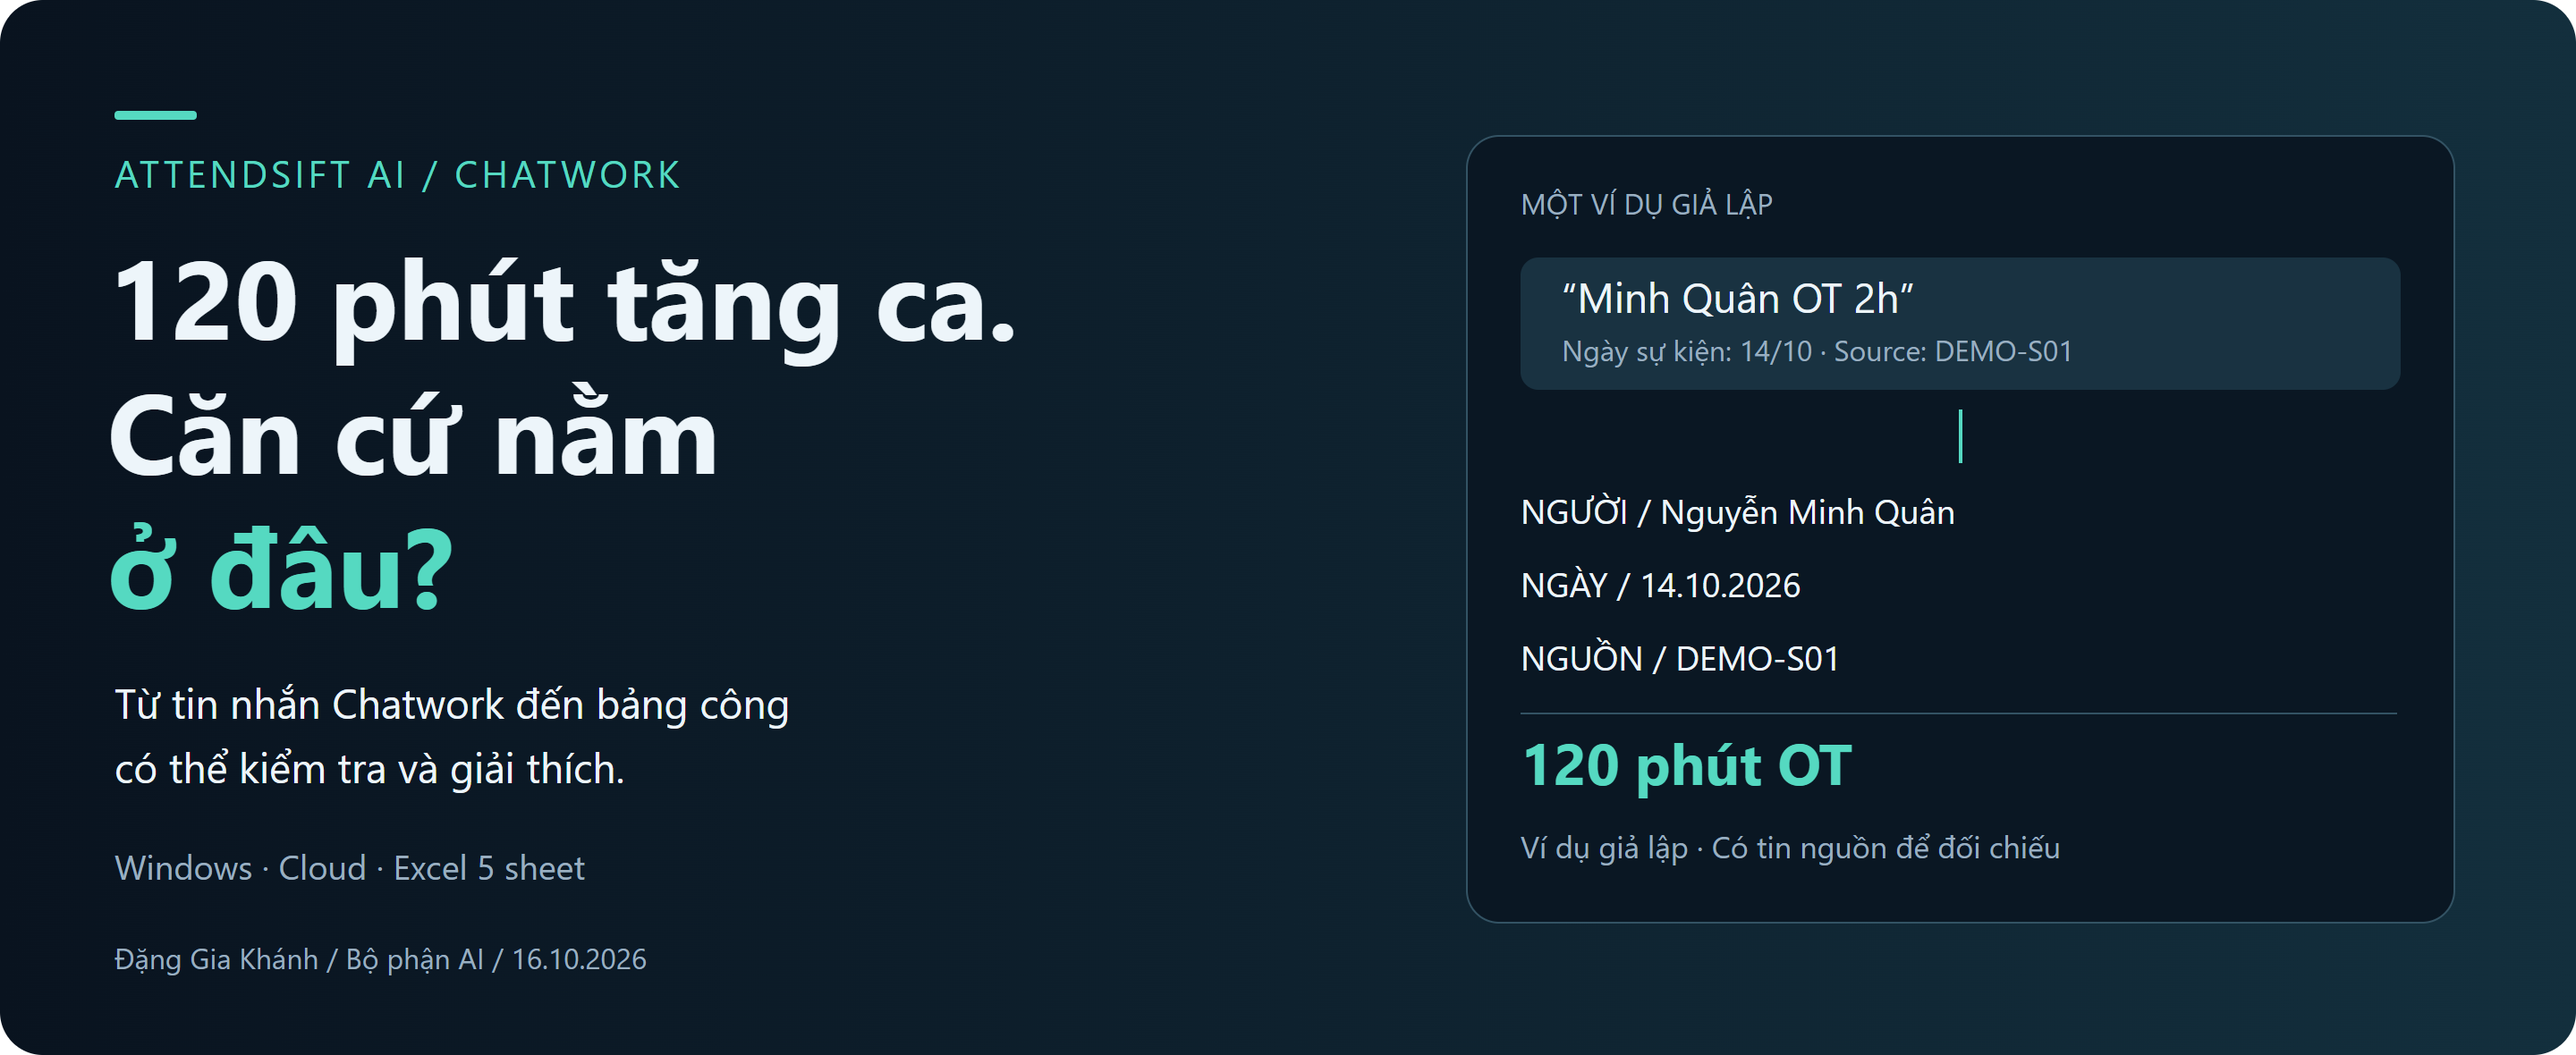
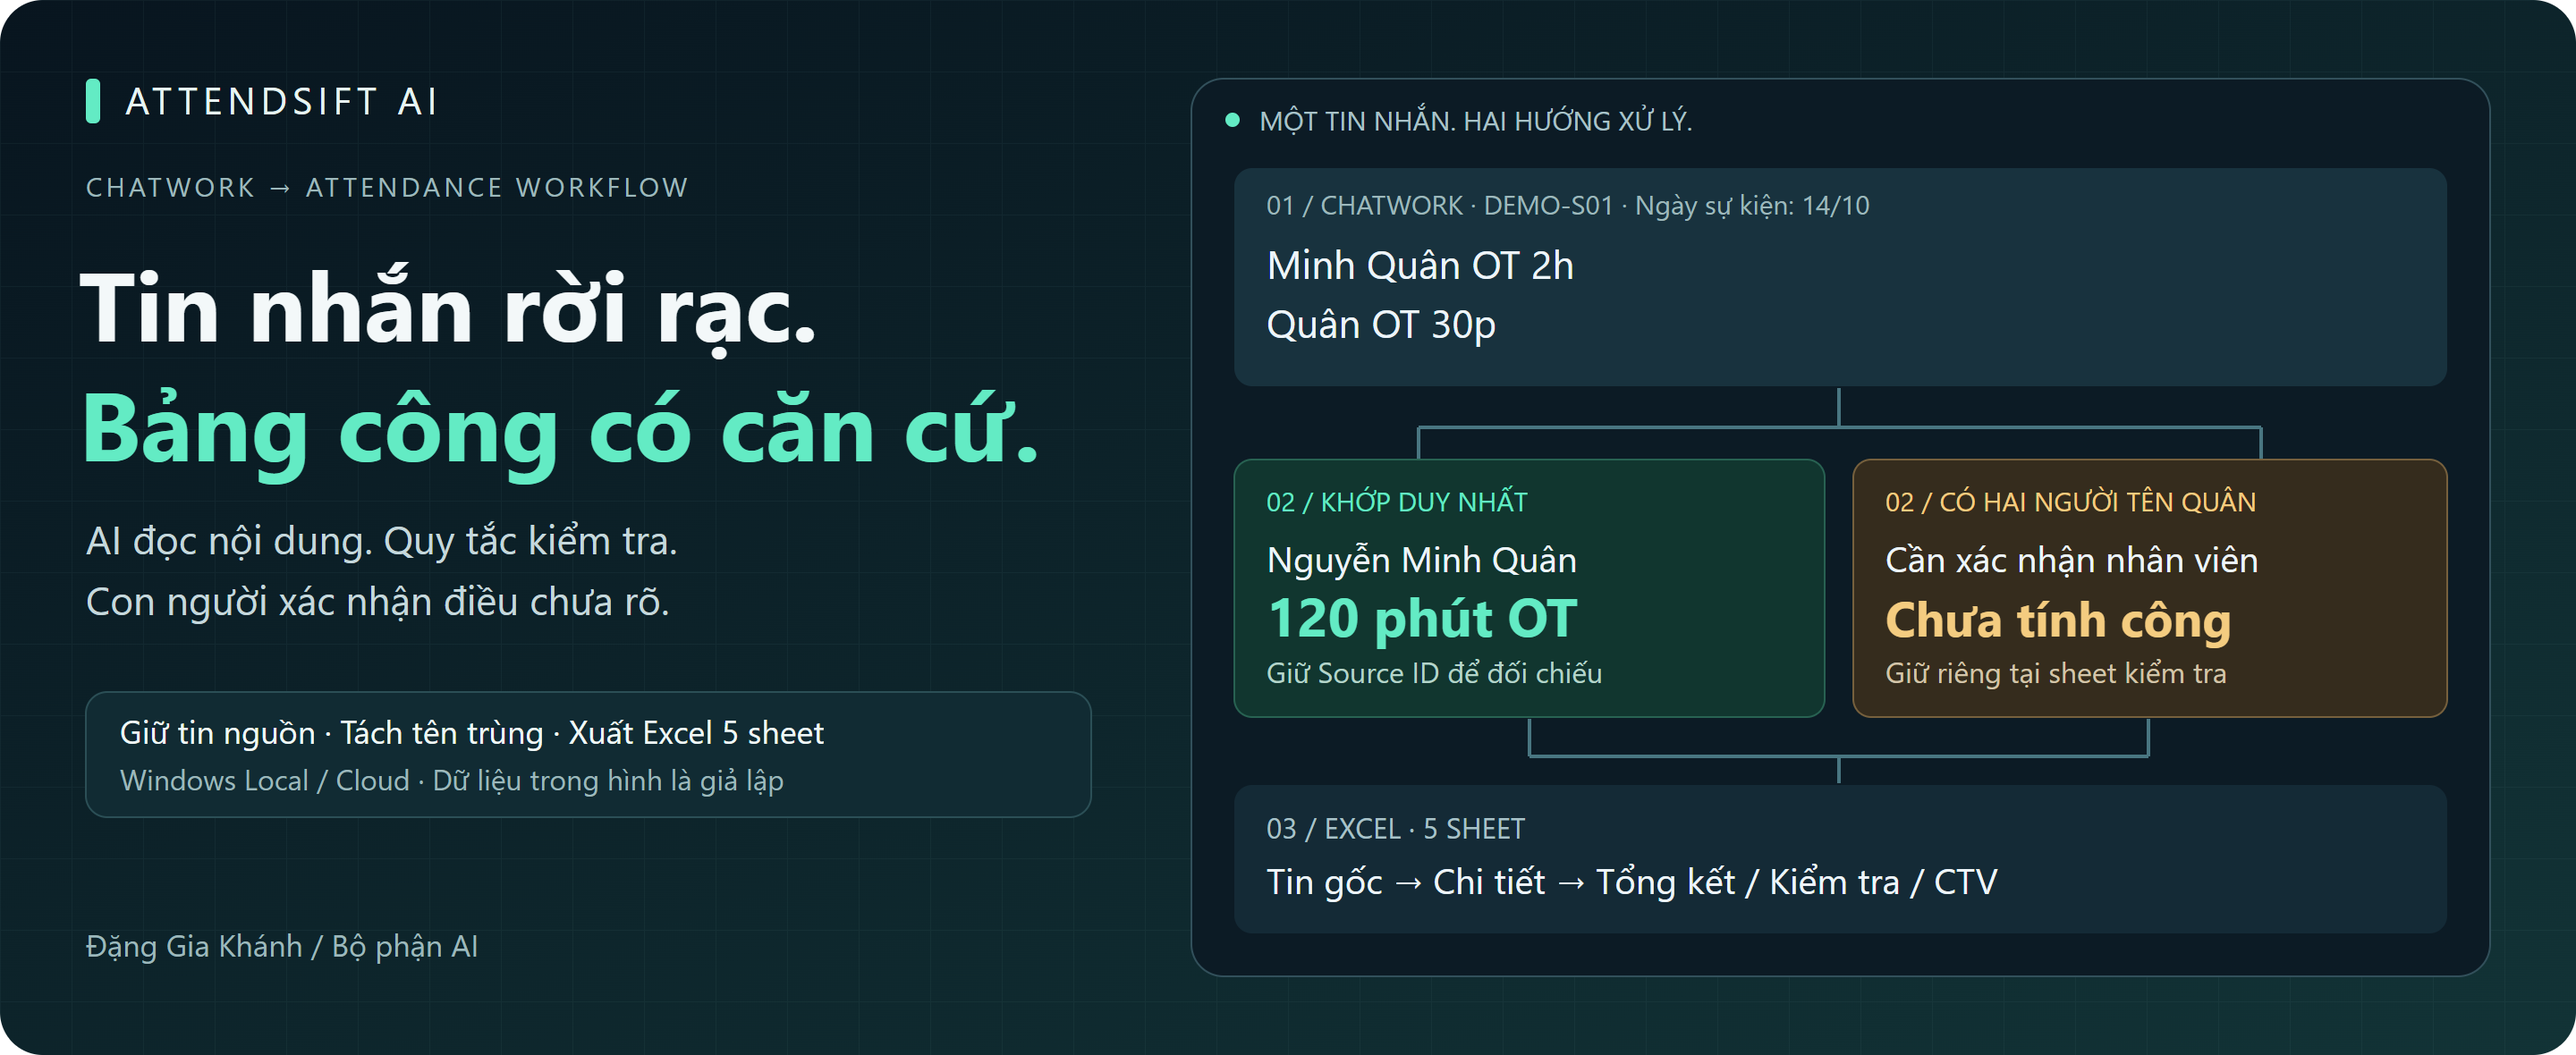
Redesign product introduction around traceable attendance workflow

diff --git a/tools/build_readme_assets.py b/tools/build_readme_assets.py
@@ -47,29 +47,32 @@ def svg(name, width, height, content):
 
 def diagrams():
     svg('cover.svg', 1440, 590, '''
-    <defs><linearGradient id="bg"><stop stop-color="#09131f"/><stop offset="1" stop-color="#132f3d"/></linearGradient></defs>
-    <rect width="1440" height="590" rx="24" fill="url(#bg)"/>
-    <rect x="64" y="62" width="46" height="5" rx="2" fill="#55d9c1"/>
-    <text x="64" y="105" fill="#55d9c1" font-size="21" letter-spacing="2">ATTENDSIFT AI / CHATWORK</text>
-    <text x="60" y="190" class="ink" font-size="62" font-weight="700">120 phút tăng ca.</text>
-    <text x="60" y="265" class="ink" font-size="62" font-weight="700">Căn cứ nằm</text>
-    <text x="60" y="340" fill="#55d9c1" font-size="62" font-weight="700">ở đâu?</text>
-    <text x="64" y="402" class="ink" font-size="23">Từ tin nhắn Chatwork đến bảng công</text>
-    <text x="64" y="438" class="ink" font-size="23">có thể kiểm tra và giải thích.</text>
-    <text x="64" y="492" class="muted" font-size="19">Windows · Cloud · Excel 5 sheet</text>
-    <text x="64" y="542" class="muted" font-size="16">Đặng Gia Khánh / Bộ phận AI / 16.10.2026</text>
-    <rect x="820" y="76" width="552" height="440" rx="18" fill="#0a1723" stroke="#335364"/>
-    <text x="850" y="120" class="muted" font-size="16">MỘT VÍ DỤ GIẢ LẬP</text>
-    <rect x="850" y="144" width="492" height="74" rx="10" fill="#193241"/>
-    <text x="873" y="175" class="ink" font-size="23">“Minh Quân OT 2h”</text>
-    <text x="873" y="202" class="muted" font-size="16">Ngày sự kiện: 14/10 · Source: DEMO-S01</text>
-    <path d="M1096 229v30" stroke="#55d9c1" stroke-width="2"/>
-    <text x="850" y="293" class="ink" font-size="19">NGƯỜI  /  Nguyễn Minh Quân</text>
-    <text x="850" y="334" class="ink" font-size="19">NGÀY  /  14.10.2026</text>
-    <text x="850" y="375" class="ink" font-size="19">NGUỒN  /  DEMO-S01</text>
-    <line x1="850" y1="399" x2="1340" y2="399" stroke="#335364"/>
-    <text x="850" y="439" fill="#55d9c1" font-size="32" font-weight="700">120 phút OT</text>
-    <text x="850" y="480" class="muted" font-size="17">Ví dụ giả lập · Có tin nguồn để đối chiếu</text>''')
+<defs><linearGradient id="bg" x2="1" y2="1"><stop stop-color="#08151f"/><stop offset="1" stop-color="#123336"/></linearGradient><pattern id="grid" width="40" height="40" patternUnits="userSpaceOnUse"><path d="M40 0H0V40" fill="none" stroke="#8dbdbb" stroke-opacity=".06"/></pattern></defs>
+<rect width="1440" height="590" rx="24" fill="url(#bg)"/><rect width="1440" height="590" rx="24" fill="url(#grid)"/>
+<rect x="48" y="44" width="8" height="25" rx="3" fill="#63ebc4"/><text x="70" y="64" font-size="21" fill="#e7f5f3" letter-spacing="3">ATTENDSIFT AI</text>
+<text x="48" y="110" font-size="15" fill="#9db8bb" letter-spacing="2">CHATWORK → ATTENDANCE WORKFLOW</text>
+<text x="44" y="191" font-size="54" font-weight="700" fill="#f3f8f9">Tin nhắn rời rạc.</text>
+<text x="44" y="258" font-size="54" font-weight="700" fill="#63ebc4">Bảng công có căn cứ.</text>
+<text x="48" y="310" font-size="22" fill="#c5d8dc">AI đọc nội dung. Quy tắc kiểm tra.</text>
+<text x="48" y="344" font-size="22" fill="#c5d8dc">Con người xác nhận điều chưa rõ.</text>
+<rect x="48" y="387" width="562" height="70" rx="12" fill="#112b33" stroke="#2b4f56"/>
+<text x="67" y="416" font-size="18" fill="#eff8f6">Giữ tin nguồn · Tách tên trùng · Xuất Excel 5 sheet</text>
+<text x="67" y="442" font-size="16" fill="#9db8bb">Windows Local / Cloud · Dữ liệu trong hình là giả lập</text>
+<text x="48" y="535" font-size="17" fill="#9db8bb">Đặng Gia Khánh / Bộ phận AI</text>
+<rect x="666" y="44" width="726" height="502" rx="18" fill="#0c1b25" stroke="#32505b"/>
+<circle cx="689" cy="67" r="4" fill="#63ebc4"/><text x="704" y="73" font-size="15" fill="#a9c2c8">MỘT TIN NHẮN. HAI HƯỚNG XỬ LÝ.</text>
+<rect x="690" y="94" width="678" height="122" rx="10" fill="#18323e"/>
+<text x="708" y="120" font-size="15" fill="#9db8bb">01 / CHATWORK · DEMO-S01 · Ngày sự kiện: 14/10</text>
+<text x="708" y="156" font-size="22" fill="#edf5fa">Minh Quân OT 2h</text><text x="708" y="189" font-size="22" fill="#edf5fa">Quân OT 30p</text>
+<path d="M1028 217v22m-235 0h471m-471 0v18m471-18v18" stroke="#497681" fill="none" stroke-width="2"/>
+<rect x="690" y="257" width="330" height="144" rx="10" fill="#11362f" stroke="#286252"/>
+<text x="708" y="286" font-size="15" fill="#63ebc4">02 / KHỚP DUY NHẤT</text><text x="708" y="320" font-size="20" fill="#edf5fa">Nguyễn Minh Quân</text><text x="708" y="356" font-size="30" font-weight="700" fill="#63ebc4">120 phút OT</text><text x="708" y="382" font-size="16" fill="#b4d4c9">Giữ Source ID để đối chiếu</text>
+<rect x="1036" y="257" width="332" height="144" rx="10" fill="#352c1d" stroke="#76603d"/>
+<text x="1054" y="286" font-size="15" fill="#f4cc80">02 / CÓ HAI NGƯỜI TÊN QUÂN</text><text x="1054" y="320" font-size="20" fill="#edf5fa">Cần xác nhận nhân viên</text><text x="1054" y="356" font-size="27" font-weight="700" fill="#f4cc80">Chưa tính công</text><text x="1054" y="382" font-size="16" fill="#d3c5aa">Giữ riêng tại sheet kiểm tra</text>
+<path d="M855 402v21m346-21v21M855 423h346m-173 0v15" stroke="#497681" fill="none" stroke-width="2"/>
+<rect x="690" y="439" width="678" height="83" rx="10" fill="#142a36"/>
+<text x="708" y="469" font-size="16" fill="#a9c2c8">03 / EXCEL · 5 SHEET</text><text x="708" y="500" font-size="20" fill="#edf5fa">Tin gốc → Chi tiết → Tổng kết / Kiểm tra / CTV</text>
+''')
     blocks = [('01', 'Tin nguồn', 'Giữ nội dung và Source ID'),
               ('02', 'Đối chiếu', 'Người · ngày · thời lượng'),
               ('03', 'Phân nhóm', 'Chính thức · CTV · cần kiểm tra'),

diff --git a/README.md b/README.md
@@ -1,18 +1,29 @@
-<p align="center"><img src="docs/images/story/cover.png" alt="AttendSift AI — 120 phút tăng ca. Căn cứ nằm ở đâu?" width="100%"></p>
+<p align="center"><img src="docs/images/story/cover.png" alt="AttendSift AI: tin Chatwork được đối chiếu thành bảng công; tên trùng được giữ riêng để xác nhận" width="100%"></p>
 
-# AttendSift AI — 120 phút tăng ca. Căn cứ nằm ở đâu?
+# AttendSift AI
 
-**Một con số chưa kể hết câu chuyện. Lần từ bảng công về đúng người, đúng ngày và tin nhắn làm căn cứ.**
+**Biến báo cáo Chatwork thành bảng chấm công có thể đối chiếu.**
 
-Bộ phận AI · **Đặng Gia Khánh** · Phiên bản nền **1.1.0** · Cập nhật **16/10/2026** · Bản ứng viên phát hành
+Dành cho người phụ trách tổng hợp tăng ca, đi trễ và về sớm từ tin nhắn tự do. AttendSift AI giữ tin nguồn, dùng AI trích xuất sự kiện, đối chiếu danh sách nhân viên và xuất **Excel 5 sheet**. Trường hợp chưa rõ được tách riêng, chưa cộng vào tổng công.
 
-[Bắt đầu trên Windows](docs/INSTALL_WINDOWS.md) · [Vận hành Cloud](docs/CLOUD_OPERATIONS.md) · [Bộ ảnh sản phẩm](docs/PRODUCT_TOUR.md) · [Kiến trúc](docs/ARCHITECTURE.md) · [English](README_EN.md)
+[**Xem giao diện và Excel mẫu →**](docs/PRODUCT_TOUR.md) · [Chạy trên Windows](docs/INSTALL_WINDOWS.md) · [Triển khai Cloud](docs/CLOUD_OPERATIONS.md) · [Đọc kiến trúc](docs/ARCHITECTURE.md)
 
-AttendSift AI giúp người phụ trách tổng hợp tăng ca, đi trễ, về sớm và các sự kiện chấm công từ tin nhắn tự do. Ứng dụng giữ tin nguồn, dùng AI hỗ trợ đọc nội dung, đối chiếu danh sách nhân viên và xuất **bảng chấm công Excel gồm 5 sheet**. Mỗi dòng chưa rõ được giữ riêng để kiểm tra, chưa cộng vào tổng công.
+### Điều khó nằm giữa tin nhắn và bảng tổng kết
 
-[**Khám phá cách một tin nhắn trở thành bảng công →**](#một-tin-báo-bốn-người-hệ-thống-giữ-điều-gì-hỏi-lại-điều-gì)
+Một người có thể báo hộ cả nhóm. Ngày gửi có thể khác ngày làm việc. Một tên gọi có thể khớp nhiều nhân viên. Quy trình phải giữ những khác biệt này khi chuyển nội dung thành số liệu.
 
-**Windows Local và Website Cloud trong cùng repository.** Ảnh trong bài dùng dữ liệu giả lập; giao diện được chụp từ bản Local chạy bằng WebView2/trình duyệt. [Xem nguồn ảnh và đủ 5 tab](docs/PRODUCT_TOUR.md).
+| Tình huống thực tế | Cách hệ thống xử lý | Giá trị khi kiểm tra |
+|---|---|---|
+| Một báo cáo nhắc nhiều người | Tách sự kiện theo từng người, ngày và thời lượng | Không chia đều số phút OT chung |
+| Tin gửi hôm sau, báo công hôm trước | Dùng ngày sự kiện trong nội dung khi đủ căn cứ | Không mặc định lấy ngày gửi để tính công |
+| Tên gọi khớp nhiều nhân viên | Giữ tại sheet kiểm tra, chờ xác nhận danh tính | Không tự chọn một người để cộng công |
+| Cần giải thích một dòng tổng kết | Giữ Source ID và nội dung nguồn | Có đường đối chiếu về báo cáo ban đầu |
+
+**Bằng chứng hiện có:** 398 kiểm thử Python đã đạt ở bản kiểm tra ngày 16/10/2026; cấu trúc repository và liên kết tài liệu đã được kiểm tra. Đây là kết quả kiểm thử phần mềm, chưa chứng minh độ chính xác trên toàn bộ dữ liệu thực tế. [Xem phạm vi và giới hạn](docs/UPDATE_2026-10-16.md).
+
+Windows Local và Cloud cùng mã nguồn · Phiên bản nền **1.1.0**, ứng viên phát hành · **Đặng Gia Khánh / Bộ phận AI** · [English](README_EN.md)
+
+Ảnh và ví dụ công khai dùng dữ liệu giả lập. Không dùng dữ liệu nhân sự thật để minh họa.
 
 ## Một tin báo bốn người: hệ thống giữ điều gì, hỏi lại điều gì?
 
